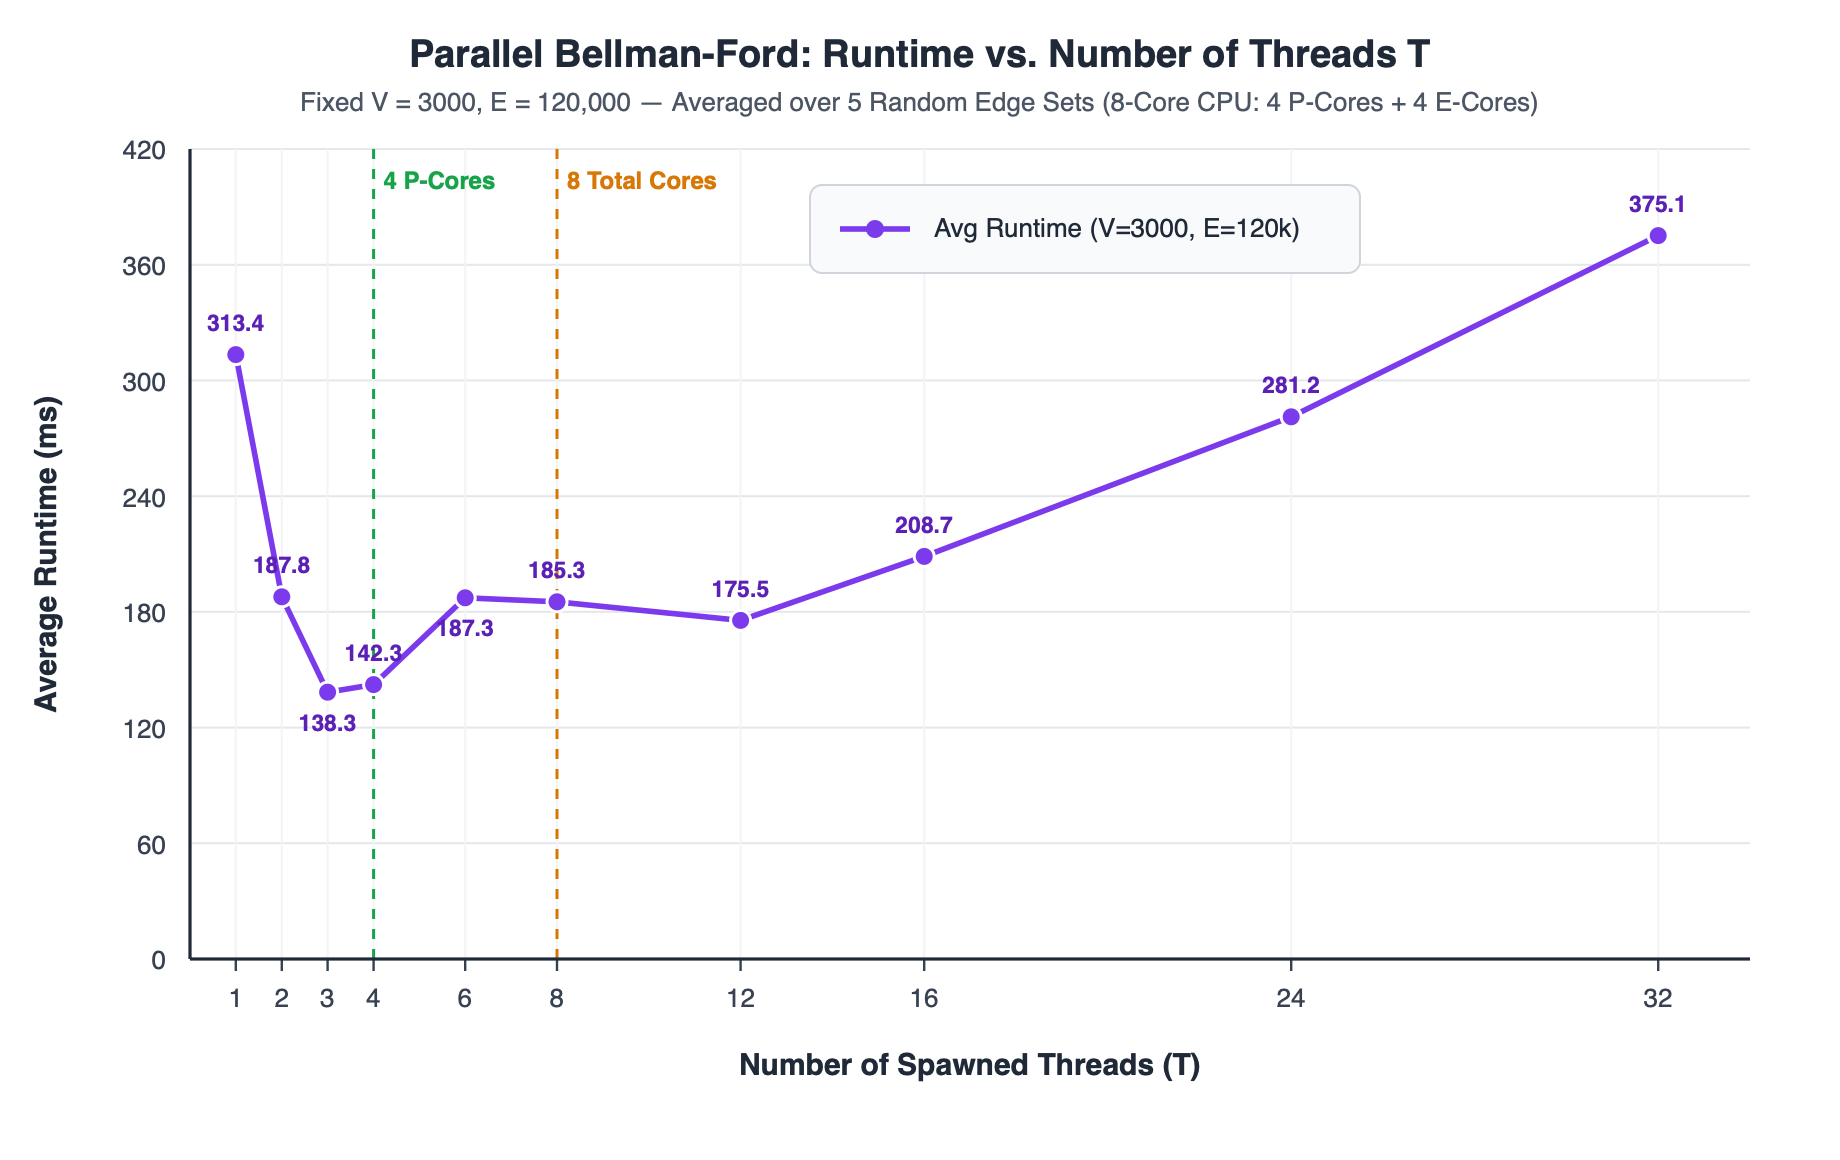
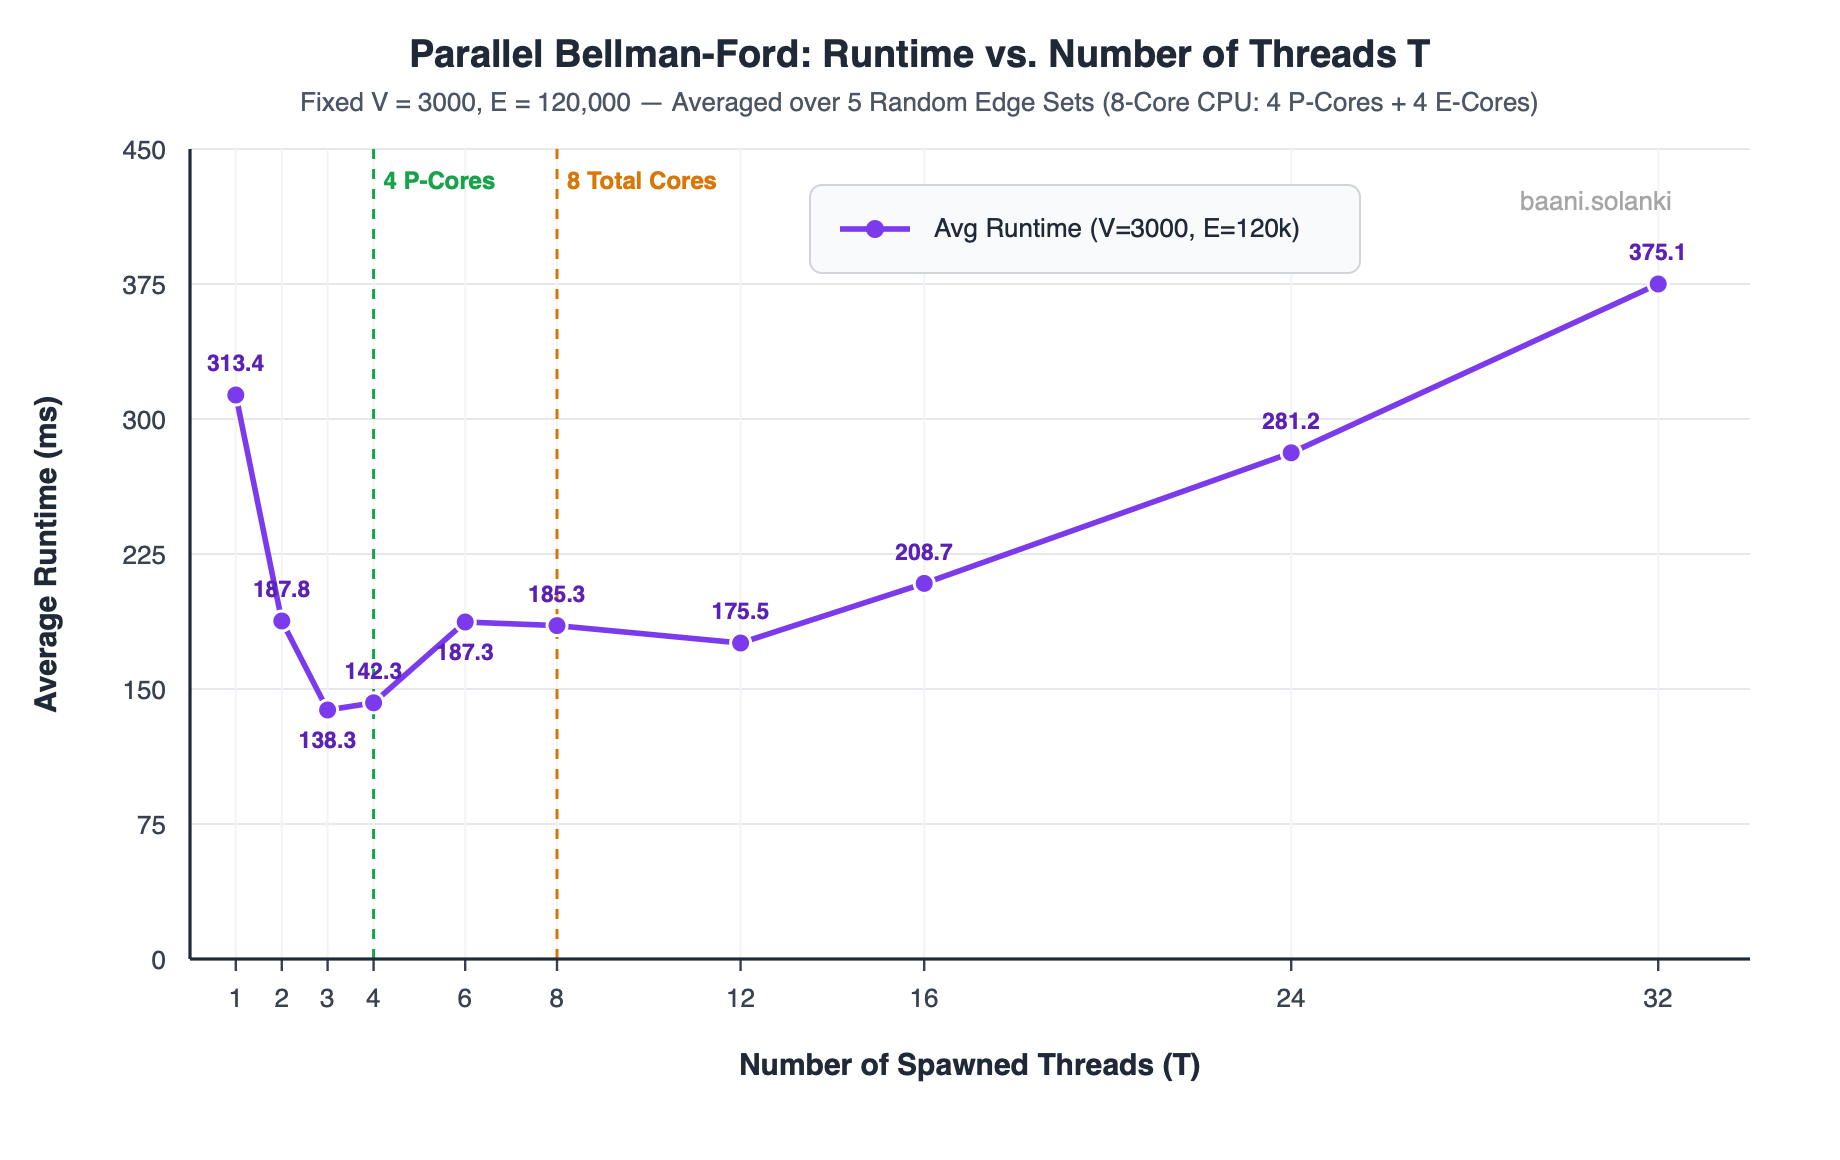
Update OSN MP3: watermark plots with baani.solanki, document no-negative-cycles rule, and sort unordered arrival timestamps

diff --git a/semester3/osn_mini_project_3/concurrency/airport-troubles/main.c b/semester3/osn_mini_project_3/concurrency/airport-troubles/main.c
@@ -7,7 +7,17 @@ struct raw_line {
     int time;
     int is_officer;
     int id;
+    int input_order;
 };
+
+static int compare_raw_lines(const void *a, const void *b) {
+    const struct raw_line *la = (const struct raw_line *)a;
+    const struct raw_line *lb = (const struct raw_line *)b;
+    if (la->time != lb->time) {
+        return (la->time < lb->time) ? -1 : 1;
+    }
+    return (la->input_order < lb->input_order) ? -1 : 1;
+}
 
 /*
  * Parse N arrival events from stdin.
@@ -50,6 +60,7 @@ static int read_input(int *out_n, struct raw_line **out_lines,
             lines[i].time = t;
             lines[i].is_officer = 0;
             lines[i].id = id;
+            lines[i].input_order = i;
             student_count++;
         } else if (strcmp(word1, "Immigration") == 0) {
             if (scanf("%63s %d", word2, &id) != 2 || strcmp(word2, "officer") != 0) {
@@ -59,11 +70,16 @@ static int read_input(int *out_n, struct raw_line **out_lines,
             lines[i].time = t;
             lines[i].is_officer = 1;
             lines[i].id = id;
+            lines[i].input_order = i;
             visit_count++;
         } else {
             free(lines);
             return -1;
         }
+    }
+
+    if (n > 1) {
+        qsort(lines, n, sizeof(struct raw_line), compare_raw_lines);
     }
 
     *out_n = n;

diff --git a/semester3/osn_mp3/Viva_Questions_and_Pointers.md b/semester3/osn_mp3/Viva_Questions_and_Pointers.md
@@ -48,7 +48,8 @@
 ## 2. "What to Show the TA" — Quick File & Line Pointers
 
 ### Part 1 (`concurrency/airport-troubles/`)
-- **Where each person's thread is spawned:** `main.c` lines `130–160` (`pthread_create` for 2 handlers, 1 officer, and `num_students` students while holding `sim.lock`).
+- **Where input events are parsed & stably sorted by `(time, input_order)`:** `main.c` lines `13–88` (`compare_raw_lines` + `qsort` so unordered timestamps work per Doubt Doc Q7).
+- **Where each person's thread is spawned:** `main.c` lines `145–175` (`pthread_create` for 2 handlers, 1 officer, and `num_students` students while holding `sim.lock`).
 - **How symbolic time jumps without `usleep`:** `clock.c` -> `try_advance_clock()` (lines `10–47`), checking `timed_count + checked_count == active_threads` and scanning `sim->wake_time[]` to jump `sim->current_time = min_time`.
 - **Same-timestamp input order rule:** `clock.c` -> `sim_wait_arrival_turn()` (lines `156–177`).
 - **Constraint 1 (No enter/leave while officer in hall):**
@@ -68,12 +69,12 @@
 ### Part 3 (`concurrency/birthday-boy/` & `README.md`)
 - **Reusable generation-counted barrier:** `barrier.c` lines `16–36` (`my_gen = b->generation`).
 - **Sorting edges by destination vertex (`qsort`) & vertex slicing:** `solver.c` -> `compare_edges_by_dst()` (lines `9–13`) and `solve_bellman_ford()` (lines `56–105`).
-- **Race-free parallel Bellman-Ford inner loop:** `solver.c` -> `bf_worker_thread()` (lines `19–47`).
-- **Fitted constant $k$ and benchmark plots:** `README.md` (`k = 3.27e-10` seconds, `plots/runtime_vs_v.png`, `plots/runtime_vs_t.png`).
+- **Race-free parallel Bellman-Ford inner loop (`V - 1` iterations, no negative cycles):** `solver.c` -> `bf_worker_thread()` (lines `19–47`).
+- **Fitted constant $k$ and `baani.solanki`-watermarked benchmark plots:** `README.md` (`k = 3.27e-10` seconds, `plots/runtime_vs_v.png`, `plots/runtime_vs_t.png`).
 
 ---
 
-## 3. Top 20 Likely TA Viva Questions & Model Answers
+## 3. Top 21 Likely TA Viva Questions & Model Answers
 
 ### Part 1: Airport Troubles Viva Questions
 
@@ -86,8 +87,8 @@
 **Q3. Why do you have `finishing_phase_count` (two-phase wakeup) at each timestamp?**  
 > **Answer:** At timestamp `t`, multiple actions might finish at `t` while other threads want to start actions at `t`. For example, at `t = 3` in the example, Students 1–3 finish `scans passport` (freeing the 3 scanners) and Student 4 wants to start `scans passport` at `t = 3`. `finishing_phase_count` forces all threads finishing at `t` to increment `free_scanners` / release resources first before Phase 2 threads evaluate `free_scanners > 0`.
 
-**Q4. How do you ensure `3 Student 10` before `3 Immigration officer 1` enters at `t = 3`, while `3 Student 20` after `3 Immigration officer 1` waits until the officer leaves?**  
-> **Answer:** `sim_wait_arrival_turn()` in `clock.c` checks all earlier input events `j < event_idx` with the same arrival timestamp `my_time` and waits until `events[j].processed == 1`. So `Student 10` runs first (`!officer_in_hall`, enters hall), then `Officer 1` runs (`officer_in_hall = 1`, enters hall), and then `Student 20` marks its arrival processed, sees `officer_in_hall == 1`, and waits until the officer finishes `leaves`.
+**Q4. How do you handle same-timestamp input events (`3 Student 10` vs `3 Immigration officer 1`) AND out-of-order input timestamps (Doubt Doc Q7)?**  
+> **Answer:** First, `read_input()` in `main.c` stores each line's `input_order = i` and sorts the input lines by `(time, input_order)` using `qsort()`, so out-of-order timestamps are placed in chronological order while ties keep their original input order. Then `sim_wait_arrival_turn()` in `clock.c` checks all earlier input events `j < event_idx` with the same arrival timestamp `my_time` and waits until `events[j].processed == 1`.
 
 **Q5. When exactly does `officer_in_hall` become `0` — when the officer starts `leaves` or when `leaves` finishes?**  
 > **Answer:** When `leaves` **finishes** (`t + 1`), after `sim_wait_action(sim, ACTION_DURATION)`! In the official example, the officer prints `6 Immigration officer 1 leaves` (`6 -> 7`), and waiting Student 5 enters at `7 Student 5 enters`, proving the hall remains locked during the 1 time unit the officer is leaving.
@@ -144,13 +145,16 @@
 **Q17. Why didn't you stop Bellman-Ford early as soon as no distance changed in an iteration?**  
 > **Answer:** On random connected graphs with `V = 3000, E = 120,000`, the diameter is only `~4–5` hops! With early termination, the loop would stop after ~5 rounds instead of `V - 1 = 2999` rounds, reducing complexity from $\Theta(VE)$ to $O(E \cdot \text{diameter})$ and masking the theoretical $O(VE)$ Bellman-Ford scaling required in the performance analysis plot ($k \cdot V \cdot E$). Running all `V - 1` iterations faithfully measures parallel Bellman-Ford's $\Theta(VE)$ work. *(If the TA asks how to add early exit live: add a shared `any_changed` flag set if any thread updates `dist_next[v]`, checked after the second barrier!)*
 
-**Q18. How did you find the constant $k$ for the theoretical curve $k \cdot V \cdot E$ in Plot 1?**  
+**Q18. Why does your Bellman-Ford loop run `V - 1` iterations without a `V`-th negative-cycle check?**  
+> **Answer:** Because the specification explicitly states *"You may assume that the graph has no negative cycles"* (and all input edges `S D` are bidirectional with positive unit weight `+1`). Any simple shortest path in a `V`-vertex graph without negative cycles contains at most `V - 1` edges, so `V - 1` relaxation rounds are both necessary and sufficient.
+
+**Q19. How did you find the constant $k$ for the theoretical curve $k \cdot V \cdot E$ in Plot 1?**  
 > **Answer:** Each data point gave an experimental runtime $t_i$ at $(V_i, E_i)$. Minimizing squared error $\sum_i (t_i - k (V_i E_i))^2$ gives the closed-form least-squares fit $k = \frac{\sum_i t_i (V_i E_i)}{\sum_i (V_i E_i)^2} = 3.27 \times 10^{-10}\text{ seconds}$ per $(V \cdot E)$ unit.
 
-**Q19. Why is the experimental runtime slightly above $k \cdot V \cdot E$ for small `V` (`500–1500`), and right on top of $k \cdot V \cdot E$ for large `V` (`2500–4000`)?**  
+**Q20. Why is the experimental runtime slightly above $k \cdot V \cdot E$ for small `V` (`500–1500`), and right on top of $k \cdot V \cdot E$ for large `V` (`2500–4000`)?**  
 > **Answer:** Because real runtime has lower-order overheads: $T(V, E) = c_{\text{spawn}} + c_{\text{barrier}} \cdot 2(V - 1) + k V E$. At `V = 500`, edge relaxation only takes `~3.3 ms`, so thread spawning and `998` barrier synchronizations (`~4 ms`) are a noticeable fraction. By `V = 3000–4000`, the quadratic $k V E$ term (`118–209 ms`) dominates completely.
 
-**Q20. Explain the shape of Plot 2 (Runtime vs. `T`): why does runtime drop from `T = 1` to `T = 3..4`, step up at `T = 6..8`, and become slower than `T = 1` at `T = 32`?**  
+**Q21. Explain the shape of Plot 2 (Runtime vs. `T`): why does runtime drop from `T = 1` to `T = 3..4`, step up at `T = 6..8`, and become slower than `T = 1` at `T = 32`?**  
 > **Answer:**
 > 1. **`T = 1 -> 3, 4` (`313 ms -> 138 ms`, `2.27x` speedup):** Work per thread drops as `2E / T` across the 4 high-frequency Performance cores; speedup is `< 4x` due to Amdahl's Law (sequential setup + `5,998` barriers + shared memory-bus bandwidth on random `dist_curr[u]` reads).
 > 2. **`T = 4 -> 6, 8` (`142 ms -> 185 ms`):** Our 8-core CPU has 4 Performance cores + 4 slower Efficiency cores. Because every iteration hits two global barriers (`5,998` barriers total), all fast P-core threads must wait for the slowest E-core thread in every single round!

diff --git a/semester3/osn_mini_project_3/README.md b/semester3/osn_mini_project_3/README.md
@@ -63,12 +63,12 @@ Every person in Gotham Intergalactic Airport is modelled as an independent POSIX
 - `airport.h`: Constants (`NUM_SCANNERS = 3`, `NUM_HANDLERS = 2`, `BELT_CAPACITY = 2`, `ACTION_DURATION = 1`, `SCAN_DURATION = 2`), per-actor structs (`struct student`, `struct officer`, `struct handler_arg`), and `struct airport_sim`.
 - `clock.c`: Implements a discrete-event symbolic clock using `pthread_mutex_t`, `pthread_cond_t`, and simple `int` arrays (`slot_used[]`, `wake_time[]`, `wake_done[]`) **without any `sleep()` or `usleep()` calls**. Threads performing a symbolic-duration action reserve a slot with their `wake_time`. Once all active threads at `current_time` have either blocked on a future timestamp or verified against the current `state_version` that their next action's precondition does not hold (`timed_count + checked_count == active_threads`), `try_advance_clock()` scans `wake_time[]` with a `for` loop to jump `current_time` directly to the smallest pending `wake_time`. A two-phase wakeup (`finishing_phase_count`) ensures all actions completing at timestamp `t` release their resources (scanners, hall lockout, belt slots) before any thread starts a new action at `t`.
 - `actors.c`: Implements all eight constraints across `student_thread()`, `officer_thread()`, and `handler_thread()`.
-- `main.c`: Reads `N` and `<time> <actor> <id>` arrival lines from `stdin`, initializes shared simulation state, spawns all actor threads under `sim.lock`, waits with `pthread_join()`, and frees allocated memory.
+- `main.c`: Reads `N` and `<time> <actor> <id>` arrival lines from `stdin`, sorts them stably by `(timestamp, input_order)` so even unordered input timestamps are handled chronologically, initializes shared simulation state, spawns all actor threads under `sim.lock`, waits with `pthread_join()`, and frees allocated memory.
 
 ### Assumptions
 
 - Action logs (`<time> <actor> <id> <action>`) are printed at the timestamp when each action **starts**, after which the actor and resource remain occupied for the symbolic duration (`2` time units for `scans passport`, `1` time unit for all other actions), matching the official example trace.
-- Input arrival lines are given in non-decreasing timestamp order, and lines sharing the exact same timestamp are processed in the order they appear in the input (`sim_wait_arrival_turn()`).
+- Input arrival timestamps are non-negative integers; `main.c` stably sorts arrival lines by `(timestamp, input_order)` and `sim_wait_arrival_turn()` guarantees lines sharing the exact same timestamp are processed in the order they appeared in the input.
 - While the immigration officer is in the hall (from the start of `Immigration officer 1 enters` until the completion of `Immigration officer 1 leaves`), no student may start entering or leaving the hall; conversely, if a student is already mid-exit (`students_leaving_now > 0`), the officer waits for that exit to finish before entering.
 - As stated in the specification, every student eventually receives a stamp before the simulation ends, so baggage handlers terminate once all `num_students` bags have been collected.
 
@@ -144,7 +144,8 @@ make clean
 ### Assumptions
 
 - All edges are bidirectional and have unit weight `1`, with zero-indexed vertex identifiers in `[0, V - 1]`.
-- Unreachable vertices (if the input graph is disconnected) are output as `-1`.
+- Per the official specification (*"You may assume that the graph has no negative cycles"*), the input graph contains no negative-weight cycles, so `V - 1` relaxation iterations are necessary and sufficient without requiring a $V$-th negative-cycle detection pass.
+- Unreachable vertices (if the input graph is disconnected) are output as `-1` (per the Doubt Document Q5, evaluation test cases use connected graphs).
 - Standard Bellman-Ford runs all `V - 1` relaxation iterations so the parallel workload reflects the full $\Theta(V E)$ Bellman-Ford complexity.
 
 ### Known Bugs

diff --git a/semester3/osn_mp3/Baani_Replication_and_Testing_Guide.md b/semester3/osn_mp3/Baani_Replication_and_Testing_Guide.md
@@ -151,7 +151,7 @@ Below is the exact chronological order in which to build, test, commit, and push
   - `concurrency/airport-troubles/main.c`
 - **Why This Change Is Made:**
   - Implements Constraints 1, 2, 3, and 4:
-    - `read_input()` in `main.c` parses both 3-token lines (`<time> Student <id>`) and 4-token lines (`<time> Immigration officer <id>`).
+    - `read_input()` in `main.c` parses both 3-token lines (`<time> Student <id>`) and 4-token lines (`<time> Immigration officer <id>`) and stably sorts them by `(time, input_order)` via `qsort()` so even unordered input timestamps (Doubt Doc Q7) are processed chronologically while preserving input order for ties.
     - `student_thread()` waits for arrival time + same-timestamp input order, blocks while `sim->officer_in_hall == 1`, enters (`1` unit, `in_hall = 1`, `unscanned_in_hall++`), acquires one of `3` scanners (`2` units, `free_scanners--`), waits for `st->approved == 1`, receives stamp (`1` unit), and leaves hall (`1` unit when `!officer_in_hall`).
     - `officer_thread()` waits for any mid-exit student (`students_leaving_now == 0`), locks the hall (`officer_in_hall = 1`), enters (`1` unit), waits until `unscanned_in_hall == 0` (every student in hall has finished scanning), approves everyone currently in the hall as one batch (`1` unit — even if empty!), and immediately leaves (`1` unit), clearing `officer_in_hall = 0` only when `leaves` finishes.
 - **How to Test at Commit 3:**
@@ -477,12 +477,13 @@ Below is the exact chronological order in which to build, test, commit, and push
   4. `ai-usage.md` *(add any chat links you used for understanding concepts/debugging, or `No AI tools were used.` as applicable)*
 - **Why This Change Is Made:**
   - Fulfills **Performance analysis [20 marks]**:
+    - Both `plots/runtime_vs_v.png` and `plots/runtime_vs_t.png` include the required **`baani.solanki` watermark** at `(0.95, 0.95)` in axes coordinates (`ha="right", va="top"`, `color="gray", alpha=0.7`).
     - Plot 1 shows average runtime vs. `V` (`E = 40V`, fixed `T = 4`, averaged over 5 random graphs per point) overlaid with the theoretical complexity curve $k \cdot V \cdot E$ tuned to $k = 3.27 \times 10^{-10}\text{ seconds}$, plus a fixed-`V` varying-`E` table verifying linear scaling with `E`.
-    - Plot 2 shows average runtime vs. `T` (`T = 1..32` for fixed `V = 3000, E = 120,000`, averaged over 5 random graphs) and explains the `2.27x` multi-core speedup up to `T = 3..4`, the heterogeneous P-core/E-core barrier straggler step at `T = 6..8`, and the OS context-switching + barrier contention slowdown at `T = 16..32`.
+    - Plot 2 shows average runtime vs. `T` (`T = 1..32` for fixed `V = 3000, E = 120,000`, averaged over 5 random graphs) and explains the `2.27x` multi-core speedup up to `T = 3..4`, the heterogeneous P-core/E-core synchronization straggler step at `T = 6..8`, and the OS context-switching slowdown at `T = 16..32`.
 - **Final Pre-Submission Checklist before Pushing Commit 14:**
   1. Run `git status` — ensure **zero** untracked `.o`, binaries, `.py` scripts, or `.DS_Store` files exist.
   2. Run `git branch -a` and `git log --oneline` — verify all 14 commits sit cleanly on `main` with clear, descriptive commit messages.
-  3. Open `code.iiit.ac.in` in your browser and verify `README.md` renders both PNG plots (`plots/runtime_vs_v.png` and `plots/runtime_vs_t.png`) and `ai-usage.md` is present.
+  3. Open `code.iiit.ac.in` in your browser and verify `README.md` renders both watermarked PNG plots (`plots/runtime_vs_v.png` and `plots/runtime_vs_t.png` with `baani.solanki` in the top-right corner) and `ai-usage.md` is present.
 - **Git Commands:**
   ```bash
   git add plots/runtime_vs_v.png plots/runtime_vs_t.png README.md ai-usage.md

diff --git a/semester3/osn_mp3/OSN_Mini_Project_3_Assignment.md b/semester3/osn_mp3/OSN_Mini_Project_3_Assignment.md
@@ -172,8 +172,8 @@ Implement symbolic links (soft links) to files in xv6 (symlinks to directories o
 **Directory:** `concurrency/birthday-boy/` + Performance Analysis in root `README.md`
 
 ### 3.1 The Parallel Bellman-Ford Algorithm [10 Marks]
-- Model the campus as an undirected (bidirectional), unweighted/unit-weight (or edge-list) graph with `V` vertices and `E` edges.
-  - Look at the input format and example in Screenshot 10 & 11:
+- Model the campus as an undirected (bidirectional), unit-weight graph with `V` vertices and `E` edges. **You may assume that the graph has no negative cycles.**
+  - Input & Output Format:
     - First line: `V E N T` (number of vertices `V`, number of edges `E`, source node `N`, number of threads `T` to spawn).
     - Next `E` lines: `S D` (two zero-indexed vertex IDs representing a bidirectional edge of weight 1).
     - Example Input:
@@ -191,7 +191,7 @@ Implement symbolic links (soft links) to files in xv6 (symlinks to directories o
       ```text
       0 1 1 2 3 4
       ```
-- Parallelize the **Bellman-Ford shortest-path algorithm** using `T` threads (`pthread_t` + barrier/synchronization across the `V - 1` relaxation iterations) to find the shortest path length from source node `N` to every vertex `0 .. V-1`.
+- Parallelize the **Bellman-Ford shortest-path algorithm** using `T` threads (`pthread_t` + synchronization across the `V - 1` relaxation iterations) to find the shortest path length from source node `N` to every vertex `0 .. V-1`.
 
 ### 3.2 Performance Analysis [20 Marks]
 In the root `README.md`, include a performance analysis report with:
@@ -200,5 +200,8 @@ In the root `README.md`, include a performance analysis report with:
    - On the same plot, overlay the theoretical complexity curve $k V E$, tuning constant $k$ to fit the experimental curve, and state the value of $k$.
 2. **Plot 2 (Runtime vs. `T` for fixed `V` and `E`):**
    - Runtime on the y-axis and thread count `T` on the x-axis (with `V` and `E` fixed), averaged over different edge sets.
-3. **Observations & Analysis:**
-   - Explain why the plots look the way they do (e.g., speedup saturation, thread creation and barrier synchronization overhead when `T` exceeds physical cores or when `E` per thread is small, cache contention / false sharing).
+3. **Plot Watermark Requirement (`baani.solanki`):**
+   - All plots created for the analysis must be watermarked with the IIIT email username (`baani.solanki`) at the top-right (`(0.95, 0.95)` in axes coordinates, `ha="right", va="top"`, `fontsize=10, color="gray", alpha=0.7`).
+4. **Observations & Analysis:**
+   - Explain why the plots look the way they do (e.g., speedup saturation, thread creation and synchronization overhead when `T` exceeds physical cores or when `E` per thread is small, cache contention / false sharing).
+
